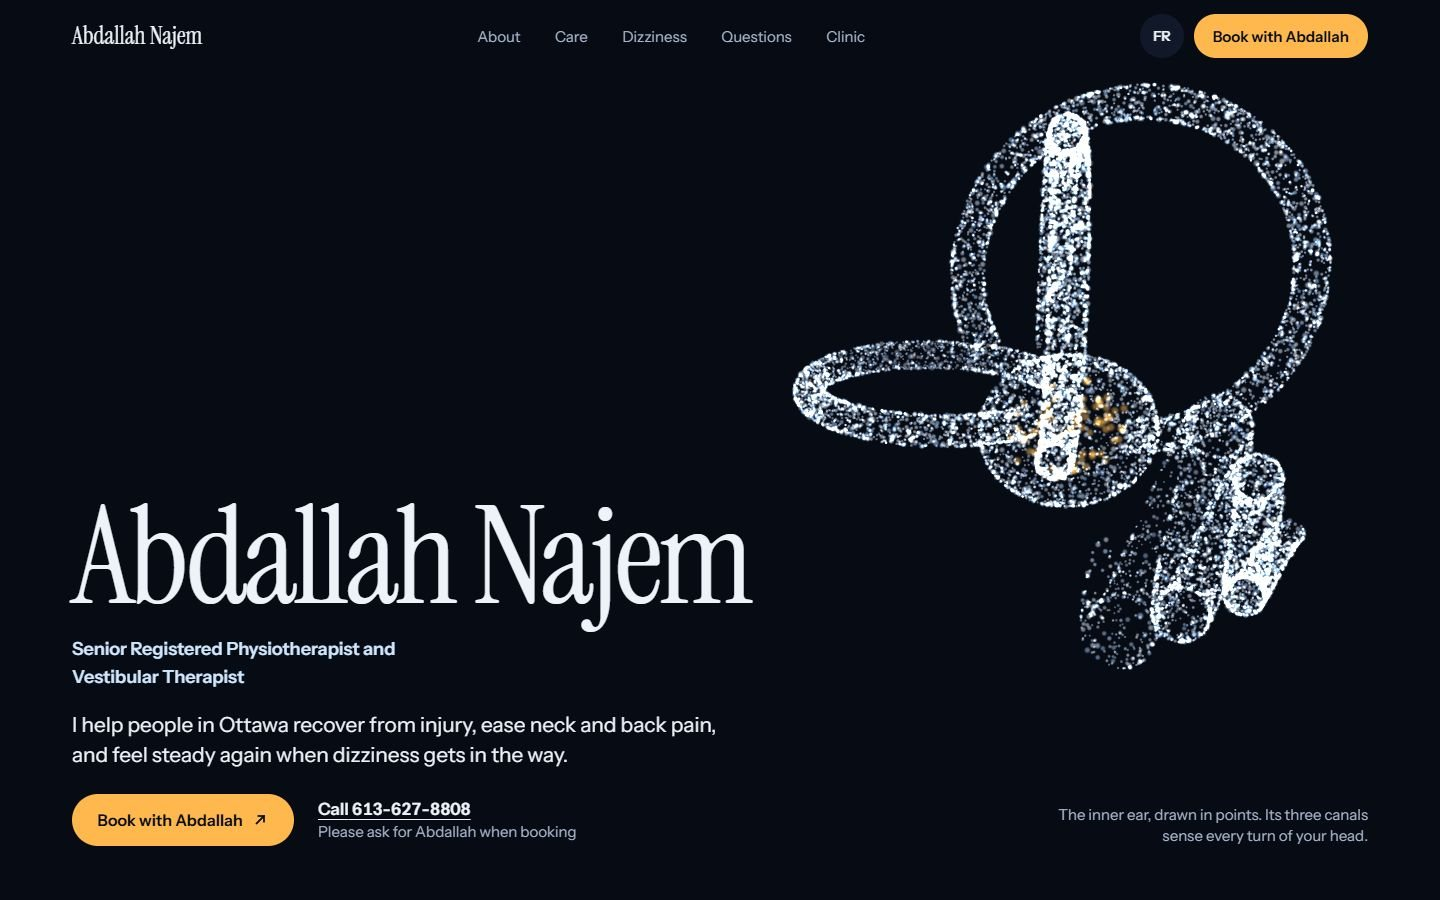
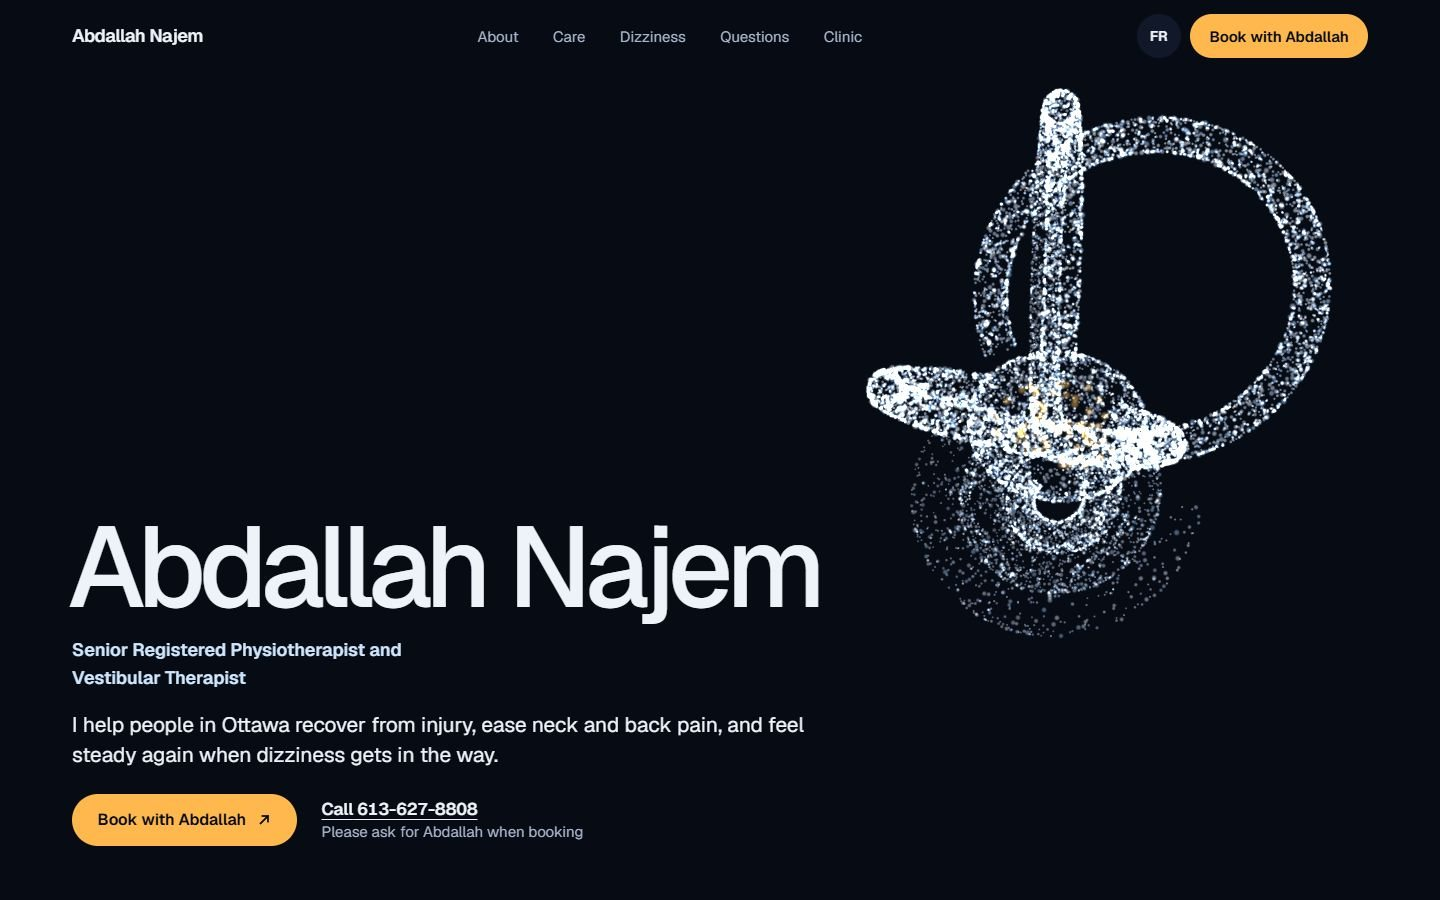
Version 7: new typeface, portrait in front of a ring of points, toned clinic photos, languages section

diff --git a/boudy/v7/css/style.css b/boudy/v7/css/style.css
@@ -11,8 +11,8 @@
   --muted: #a8b6cc;
   --ice: #cfe6ff;
   --amber: #ffb84d;
-  --serif: 'Instrument Serif', 'Iowan Old Style', Georgia, serif;
-  --sans: 'Instrument Sans', 'Segoe UI', system-ui, -apple-system, sans-serif;
+  --serif: 'Geist', 'Segoe UI', system-ui, -apple-system, sans-serif;   /* the display role: the same family, set large and tight */
+  --sans: 'Geist', 'Segoe UI', system-ui, -apple-system, sans-serif;
   --px: clamp(1.25rem, 5vw, 5rem);
   --bar: 4.5rem;
   --ease: cubic-bezier(0.22, 1, 0.36, 1);
@@ -25,7 +25,8 @@ body { background: var(--bg); color: var(--ink); font: 400 1.0625rem/1.55 var(--
 img, picture { display: block; max-width: 100%; }
 a { color: inherit; }
 p { text-wrap: pretty; }
-h1, h2, h3 { font-family: var(--serif); font-weight: 400; text-wrap: balance; }
+h1, h2, h3 { font-family: var(--serif); font-weight: 500; text-wrap: balance; }
+.has-lenis { scroll-behavior: auto; }
 :focus-visible { outline: 2px solid var(--amber); outline-offset: 4px; }
 .visually-hidden { position: absolute; width: 1px; height: 1px; margin: -1px; padding: 0; overflow: hidden; clip-path: inset(50%); white-space: nowrap; border: 0; }
 .skip { position: absolute; left: 1rem; top: -4rem; z-index: 60; padding: 0.75rem 1rem; background: var(--amber); color: var(--bg); font-weight: 600; border-radius: 999px; }
@@ -40,7 +41,7 @@ main, .foot { position: relative; z-index: 1; }
 /* ---------- The bar ---------- */
 .bar { position: fixed; inset: 0 0 auto 0; z-index: 40; height: var(--bar); display: flex; align-items: center; justify-content: space-between; gap: 1rem; padding: 0 var(--px); transition: background 0.4s; }
 .bar.is-solid { background: var(--bg); }
-.bar__mark { font: 400 1.5rem/1 var(--serif); text-decoration: none; white-space: nowrap; min-height: 2.75rem; display: inline-flex; align-items: center; }
+.bar__mark { font: 600 1.125rem/1 var(--serif); letter-spacing: -0.02em; text-decoration: none; white-space: nowrap; min-height: 2.75rem; display: inline-flex; align-items: center; }
 .bar__nav ul { list-style: none; padding: 0; display: flex; gap: clamp(1rem, 2.4vw, 2.25rem); }
 .bar__nav a { text-decoration: none; font-size: 0.9375rem; color: var(--muted); padding: 0.75rem 0; transition: color 0.2s; }
 .bar__nav a:hover { color: var(--ink); }
@@ -62,7 +63,7 @@ main, .foot { position: relative; z-index: 1; }
 .ph { background: var(--raise); color: var(--ice); padding: 0.1em 0.4em; border-radius: 0.3em; font-weight: 500; }
 
 /* ---------- Type ---------- */
-.h { font-size: clamp(2.6rem, 6.2vw, 5.5rem); line-height: 0.98; letter-spacing: -0.02em; }
+.h { font-size: clamp(2.4rem, 5.3vw, 4.75rem); line-height: 0.98; letter-spacing: -0.045em; }
 .st { font-size: clamp(1.2rem, 1.75vw, 1.5rem); line-height: 1.35; color: var(--ink); }
 .lead { font-size: clamp(1.0625rem, 1.4vw, 1.25rem); color: var(--muted); max-width: 34em; }
 .cap { font-size: 0.9375rem; line-height: 1.4; color: var(--muted); max-width: 22em; }
@@ -70,7 +71,7 @@ main, .foot { position: relative; z-index: 1; }
 /* ---------- 1. The first screen ---------- */
 .hero { min-height: 100svh; padding: calc(var(--bar) + 2rem) var(--px) clamp(2rem, 6vh, 4rem); display: grid; grid-template-columns: minmax(0, 1fr) auto; align-items: end; gap: 2rem; }
 .hero__copy { max-width: 35rem; display: grid; gap: 1.1rem; }
-.hero__title { font-size: clamp(3.6rem, 9.4vw, 8.75rem); line-height: 0.9; letter-spacing: -0.03em; white-space: nowrap; }
+.hero__title { font-size: clamp(3.2rem, 7.9vw, 7.4rem); line-height: 0.9; letter-spacing: -0.055em; white-space: nowrap; margin-left: -0.04em; }
 .hero__role { font-weight: 600; font-size: 1.125rem; color: var(--ice); max-width: 26em; }
 .hero__lead { font-size: clamp(1.0625rem, 1.45vw, 1.3rem); line-height: 1.45; }
 .hero__act { display: flex; flex-wrap: wrap; align-items: center; gap: 1rem 1.5rem; margin-top: 0.4rem; }
@@ -83,12 +84,13 @@ main, .foot { position: relative; z-index: 1; }
 .stage { display: flex; align-items: flex-end; min-height: 12rem; }
 
 .about { grid-template-columns: minmax(0, 0.8fr) minmax(0, 1fr); align-items: center; }
-.about__fig { margin: 0; overflow: hidden; border-radius: 1.5rem; aspect-ratio: 4 / 5; max-height: 82svh; justify-self: start; width: 100%; }
-.about__fig img { width: 100%; height: 100%; object-fit: cover; object-position: top; }
+/* He stands in front of a ring of the same points; the canvas behind the page draws it and follows the picture. */
+.about__fig { margin: 0; justify-self: center; width: min(100%, 68svh); }
+.about__fig img { width: 100%; height: auto; }
 .about__copy { display: grid; gap: 1.25rem; max-width: 40rem; }
 .about__copy > p:not(.st) { color: var(--muted); }
 .glance { display: grid; grid-template-columns: repeat(4, minmax(0, 1fr)); gap: 1.5rem; margin-top: 1rem; }
-.glance dt { font: 400 clamp(3rem, 5.4vw, 5rem) / 0.9 var(--serif); color: var(--amber); }
+.glance dt { font: 300 clamp(3rem, 5.4vw, 5rem) / 0.9 var(--serif); letter-spacing: -0.05em; color: var(--amber); }
 .glance dd { margin-top: 0.5rem; font-size: 0.9375rem; line-height: 1.35; color: var(--muted); }
 
 .care { grid-template-columns: minmax(0, 1fr) minmax(0, 1fr); min-height: 100svh; align-items: center; }
@@ -97,7 +99,7 @@ main, .foot { position: relative; z-index: 1; }
 .svcs { list-style: none; padding: 0; display: grid; gap: 0.5rem; margin-top: 0.75rem; }
 .svcs li { padding: 1.15rem 1.35rem; border-radius: 1.1rem; background: rgba(16, 24, 41, 0.72); transition: background 0.3s, translate 0.4s var(--ease); }
 .svcs li:hover { background: var(--raise); translate: 0.4rem 0; }
-.svcs h3 { font-size: clamp(1.5rem, 2.3vw, 2rem); line-height: 1.1; }
+.svcs h3 { font-size: clamp(1.3rem, 1.9vw, 1.65rem); line-height: 1.15; letter-spacing: -0.03em; }
 .svcs p { margin-top: 0.4rem; color: var(--muted); font-size: 1rem; max-width: 38em; }
 
 .dizzy { grid-template-columns: minmax(0, 1fr) minmax(0, 1fr); min-height: 100svh; align-items: center; }
@@ -110,19 +112,26 @@ main, .foot { position: relative; z-index: 1; }
 
 .visit__head { display: grid; grid-template-columns: minmax(0, 1fr) minmax(0, 1fr); align-items: end; gap: 1.5rem clamp(2rem, 5vw, 5rem); }
 .steps { list-style: none; padding: 0; display: grid; grid-template-columns: repeat(3, minmax(0, 1fr)); gap: clamp(1rem, 2.5vw, 2.25rem); counter-reset: step; }
-.steps li { display: grid; gap: 0.75rem; align-content: start; }
-.steps picture { overflow: hidden; border-radius: 1.25rem; aspect-ratio: 4 / 5; background: var(--raise); }
-.steps img { width: 100%; height: 100%; object-fit: cover; transition: scale 0.9s var(--ease); }
-.steps li:hover img { scale: 1.04; }
-.steps h3 { font-size: clamp(2rem, 3.4vw, 3rem); line-height: 1; margin-top: 0.5rem; }
+.steps li { display: flex; flex-direction: column; gap: 1rem; padding: clamp(1.5rem, 2.6vw, 2.5rem); border-radius: 1.5rem; background: rgba(16, 24, 41, 0.78); min-height: clamp(15rem, 44vh, 24rem); transition: background 0.3s, translate 0.5s var(--ease); }
+.steps li:hover { background: var(--raise); translate: 0 -0.4rem; }
+.steps h3 { font-size: clamp(2.4rem, 4.6vw, 4.25rem); line-height: 0.95; letter-spacing: -0.05em; color: var(--amber); margin-bottom: auto; }
 .steps p { color: var(--muted); }
+
+.langs { grid-template-columns: minmax(0, 0.8fr) minmax(0, 1.2fr); align-items: start; }
+.langs__head { display: grid; gap: 1.25rem; position: sticky; top: calc(var(--bar) + 1.5rem); }
+.langs__list { list-style: none; padding: 0; display: grid; gap: clamp(1rem, 2.4vw, 2rem); }
+.langs__list li { display: grid; gap: 0.35rem; transition: opacity 0.35s; }
+.langs__list:hover li:not(:hover) { opacity: 0.32; }
+.langs__say { font: 500 clamp(2.3rem, 5.6vw, 5.25rem) / 1 var(--serif); letter-spacing: -0.05em; }
+.langs__say[lang="ar"] { letter-spacing: 0; line-height: 1.25; text-align: left; }
+.langs__lv { color: var(--muted); font-size: 0.9375rem; }
 
 .faq { grid-template-columns: minmax(0, 0.8fr) minmax(0, 1.2fr); align-items: start; }
 .faq .h { position: sticky; top: calc(var(--bar) + 1.5rem); }
 .faq__list { display: grid; gap: 0.5rem; }
 .faq details { border-radius: 1.1rem; background: rgba(16, 24, 41, 0.78); padding: 0 1.4rem; transition: background 0.3s; }
 .faq details[open], .faq details:hover { background: var(--raise); }
-.faq summary { list-style: none; cursor: pointer; display: flex; justify-content: space-between; align-items: center; gap: 1.5rem; padding: 1.2rem 0; font: 400 clamp(1.3rem, 2vw, 1.7rem) / 1.15 var(--serif); }
+.faq summary { list-style: none; cursor: pointer; display: flex; justify-content: space-between; align-items: center; gap: 1.5rem; padding: 1.2rem 0; font: 500 clamp(1.15rem, 1.6vw, 1.4rem) / 1.2 var(--serif); letter-spacing: -0.025em; }
 .faq summary::-webkit-details-marker { display: none; }
 .faq summary::after { content: ""; flex: none; width: 0.7rem; height: 0.7rem; border-right: 2px solid var(--amber); border-bottom: 2px solid var(--amber); rotate: 45deg; translate: 0 -0.2rem; transition: rotate 0.3s var(--ease), translate 0.3s var(--ease); }
 .faq details[open] summary::after { rotate: 225deg; translate: 0 0.15rem; }
@@ -134,14 +143,16 @@ main, .foot { position: relative; z-index: 1; }
 .clinic__card p:last-child { grid-column: 1 / -1; }
 .clinic__card a { text-underline-offset: 0.25em; }
 .clinic__pics { display: grid; grid-template-columns: repeat(2, minmax(0, 1fr)); gap: 0.75rem; }
-.clinic__pics picture { overflow: hidden; border-radius: 1.25rem; background: var(--raise); aspect-ratio: 1; }
+/* The photographs take the page's blue until you point at them. */
+.clinic__pics picture { overflow: hidden; border-radius: 1.25rem; background: #1f4577; aspect-ratio: 1; isolation: isolate; }
 .clinic__pics picture:first-child { grid-column: 1 / -1; aspect-ratio: 16 / 9; }
-.clinic__pics img { width: 100%; height: 100%; object-fit: cover; }
+.clinic__pics img { width: 100%; height: 100%; object-fit: cover; mix-blend-mode: luminosity; filter: contrast(1.15) brightness(0.8); transition: scale 0.9s var(--ease); }
+.clinic__pics picture:hover img { mix-blend-mode: normal; filter: none; scale: 1.03; }
 
 .cta { min-height: 92svh; justify-items: center; align-content: center; text-align: center; gap: 0; }
-.cta__title { font-size: clamp(3rem, 9vw, 8.5rem); line-height: 0.92; letter-spacing: -0.03em; padding-bottom: clamp(3rem, 9vh, 6rem); }
+.cta__title { font-size: clamp(2.6rem, 7.6vw, 7.25rem); line-height: 0.92; letter-spacing: -0.055em; padding-bottom: clamp(3rem, 9vh, 6rem); }
 .cta__act { display: flex; flex-wrap: wrap; justify-content: center; align-items: center; gap: 1rem 2rem; padding-top: clamp(3rem, 9vh, 6rem); }
-.cta__tel { font: 400 clamp(1.5rem, 2.6vw, 2.25rem) / 1 var(--serif); text-underline-offset: 0.2em; text-decoration-thickness: 1px; }
+.cta__tel { font: 500 clamp(1.3rem, 2.1vw, 1.8rem) / 1 var(--serif); letter-spacing: -0.03em; text-underline-offset: 0.2em; text-decoration-thickness: 1px; }
 .cta__note { margin-top: 1.25rem; color: var(--muted); }
 
 .foot { padding: 2.5rem var(--px) 3rem; background: var(--bg); display: grid; grid-template-columns: minmax(0, 1fr) auto; gap: 1rem 3rem; color: var(--muted); font-size: 0.9375rem; }
@@ -167,11 +178,14 @@ main, .foot { position: relative; z-index: 1; }
 
   /* The scene sits in the upper part of the screen; each block of text has its own ground. */
   .hero { grid-template-columns: minmax(0, 1fr); align-content: end; gap: 1rem; padding-bottom: 1.75rem; }
-  .hero__title { font-size: clamp(3rem, 15.5vw, 5rem); }
+  .hero__title { font-size: clamp(2.4rem, 12.6vw, 4.5rem); }
   .hero__cap { order: -1; text-align: left; justify-self: start; }
   .sec { grid-template-columns: minmax(0, 1fr); padding-block: 4rem; }
-  .about, .visit, .faq, .clinic { background: rgba(7, 11, 20, 0.86); }
-  .about__fig { max-height: none; }
+  .visit, .langs, .faq, .clinic { background: rgba(7, 11, 20, 0.86); }
+  .about__fig { width: min(100%, 24rem); }
+  .langs__head { position: static; }
+  .steps li { min-height: 0; }
+  .steps h3 { margin-bottom: 0; }
   .care, .dizzy { min-height: 0; padding-block: 0 4rem; gap: 0; }
   .care .stage, .dizzy .stage { min-height: 62svh; padding-bottom: 1.25rem; justify-content: flex-start; }
   .dizzy .stage { order: -1; }
@@ -180,8 +194,7 @@ main, .foot { position: relative; z-index: 1; }
   .svcs li { background: var(--raise); }
   .svcs li:hover { translate: none; }
   .visit__head { grid-template-columns: minmax(0, 1fr); }
-  .steps { grid-template-columns: minmax(0, 1fr); gap: 2.5rem; }
-  .steps picture { aspect-ratio: 4 / 3; }
+  .steps { grid-template-columns: minmax(0, 1fr); gap: 0.75rem; }
   .faq .h { position: static; }
   .foot { grid-template-columns: minmax(0, 1fr); }
   .foot__links { justify-content: flex-start; }

diff --git a/boudy/v7/index.html b/boudy/v7/index.html
@@ -26,7 +26,7 @@
 
   <link rel="preconnect" href="https://fonts.googleapis.com">
   <link rel="preconnect" href="https://fonts.gstatic.com" crossorigin>
-  <link href="https://fonts.googleapis.com/css2?family=Instrument+Sans:wght@400;500;600&family=Instrument+Serif:ital@0;1&display=swap" rel="stylesheet">
+  <link href="https://fonts.googleapis.com/css2?family=Geist:wght@300..700&display=swap" rel="stylesheet">
   <link rel="stylesheet" href="css/style.css">
 
   <script>
@@ -128,9 +128,9 @@
     </section>
 
     <!-- 2. About: the person, in a real photograph -->
-    <section class="sec about" id="about" data-shape="field" data-x="0" data-y="0" data-scale="1.2" data-alpha="0.35" aria-labelledby="about-title">
+    <section class="sec about" id="about" data-shape="ring" data-follow=".about__fig" data-x="-0.5" data-y="0.1" data-scale="1" data-alpha="1" aria-labelledby="about-title">
       <figure class="about__fig" data-in>
-        <picture><source srcset="assets/images/abdallah-portrait-600.webp 600w, assets/images/abdallah-portrait.webp 1000w" sizes="(max-width: 800px) 90vw, 36vw" type="image/webp"><img src="assets/images/abdallah-portrait.jpg" width="1000" height="1250" alt="Abdallah Najem in black scrubs, arms crossed, smiling" data-i18n-attr="alt:portraitAlt" loading="lazy"></picture>
+        <img src="assets/images/abdallah-cutout.webp" srcset="assets/images/abdallah-cutout-560.webp 560w, assets/images/abdallah-cutout.webp 1000w" sizes="(max-width: 800px) 80vw, 34vw" width="1000" height="1250" alt="Abdallah Najem in black scrubs, arms crossed, smiling" data-i18n-attr="alt:portraitAlt" loading="lazy">
       </figure>
       <div class="about__copy">
         <h2 class="h" id="about-title" data-in data-i18n="aboutTitle">Assessment first, every time</h2>
@@ -184,21 +184,32 @@
       </div>
       <ol class="steps">
         <li data-in>
-          <picture><source srcset="assets/images/clinic-treatment-room-tall.webp" type="image/webp"><img src="assets/images/clinic-treatment-room-tall.jpg" width="720" height="960" alt="A treatment room at Arro Wellness with rehab equipment on the wall" data-i18n-attr="alt:stepImg1" loading="lazy"></picture>
           <h3 data-i18n="step1Title">Assess</h3>
           <p data-i18n="step1Text">We talk about what you feel and what you want to get back to. Then I look at how you move, to find what is driving the problem, not only where it hurts.</p>
         </li>
         <li data-in>
-          <picture><source srcset="assets/images/clinic-treatment-table.webp" type="image/webp"><img src="assets/images/clinic-treatment-table.jpg" width="630" height="788" alt="An adjustable treatment table at Arro Wellness" data-i18n-attr="alt:stepImg2" loading="lazy"></picture>
           <h3 data-i18n="step2Title">Treat</h3>
           <p data-i18n="step2Text">Hands-on treatment targets what the assessment found: soft tissue mobilization, manual therapy and, when it suits, shockwave or vestibular techniques.</p>
         </li>
         <li data-in>
-          <picture><source srcset="assets/images/clinic-training-area.webp" type="image/webp"><img src="assets/images/clinic-training-area.jpg" width="1100" height="687" alt="Training area with squat racks for exercise" data-i18n-attr="alt:stepImg3" loading="lazy"></picture>
           <h3 data-i18n="step3Title">Exercise</h3>
           <p data-i18n="step3Text">You leave with a short set of exercises chosen for you, so the progress you make in the clinic keeps going at home.</p>
         </li>
       </ol>
+    </section>
+
+    <!-- Languages: the same request, four ways -->
+    <section class="sec langs" id="languages" data-shape="field" data-x="0" data-y="0" data-scale="1.2" data-alpha="0.3" aria-labelledby="langs-title">
+      <div class="langs__head">
+        <h2 class="h" id="langs-title" data-in data-i18n="langsTitle">Your care in your language</h2>
+        <p class="lead" data-in data-i18n="langsText">Pain and dizziness are hard enough to describe. You can do it in the language you are most comfortable with.</p>
+      </div>
+      <ul class="langs__list">
+        <li data-in><span class="langs__say">Ask for Abdallah</span><span class="langs__lv">English · <span data-i18n="lvFluent">Fluent</span></span></li>
+        <li data-in><span class="langs__say" lang="fr">Demandez Abdallah</span><span class="langs__lv"><span lang="fr">Français</span> · <span data-i18n="lvFluent">Fluent</span></span></li>
+        <li data-in><span class="langs__say" lang="ar" dir="rtl">اطلبوا عبدالله</span><span class="langs__lv"><span lang="ar">العربية</span> · <span data-i18n="lvNative">Native</span></span></li>
+        <li data-in><span class="langs__say" lang="es">Pregunte por Abdallah</span><span class="langs__lv"><span lang="es">Español</span> · <span data-i18n="lvBasic">Basic clinical</span></span></li>
+      </ul>
     </section>
 
     <!-- 6. Questions -->
@@ -260,6 +271,7 @@
   </footer>
 
   <script src="https://cdnjs.cloudflare.com/ajax/libs/three.js/r128/three.min.js" defer></script>
+  <script src="https://cdn.jsdelivr.net/npm/lenis@1.1.13/dist/lenis.min.js" defer></script>
   <script src="js/i18n.js" defer></script>
   <script src="js/main.js" defer></script>
 </body>

diff --git a/boudy/v7/js/main.js b/boudy/v7/js/main.js
@@ -190,8 +190,19 @@
     return out;
   }
 
+  function ring(N) { // a circle that faces the reader, with a loose halo: it stands behind the portrait
+    var out = new Float32Array(N * 3);
+    for (var i = 0; i < N; i++) {
+      var a = rnd() * Math.PI * 2, halo = rnd() < 0.22;
+      var r = 1.25 + gauss() * (halo ? 0.22 : 0.035);
+      out[i * 3] = r * Math.cos(a); out[i * 3 + 1] = r * Math.sin(a); out[i * 3 + 2] = gauss() * (halo ? 0.3 : 0.05);
+    }
+    return out;
+  }
+
   /* ---------- The scene ---------- */
   var scene = null;
+  var lenis = null;
 
   function sceneSetup() {
     var canvas = $('[data-scene]');
@@ -204,7 +215,7 @@
     var small = window.innerWidth < 800;
     var N = small ? 8000 : 15000;
     var CR = 70; // the crystals: the last points of the cloud, in amber
-    var shapes = { ear: ear(N), spine: spine(N), field: field(N), line: line(N) };
+    var shapes = { ear: ear(N), spine: spine(N), field: field(N), line: line(N), ring: ring(N) };
     shapes.crystals = shapes.ear;
 
     var pos = new Float32Array(shapes.field);
@@ -273,9 +284,17 @@
       cur.x = wide ? parseFloat(best.getAttribute('data-x')) * halfW : 0;
       cur.y = wide ? parseFloat(best.getAttribute('data-y')) * halfH : (shape === 'field' || shape === 'line' ? 0 : halfH * (shape === 'spine' ? 0.3 : 0.44));
       if (!wide && shape === 'field') cur.alpha *= 0.7;
+      // a shape that stands behind something on the page follows it
+      var follow = best.getAttribute('data-follow'), el = follow ? $(follow, best) : null;
+      if (el) {
+        var fr = el.getBoundingClientRect();
+        cur.x = ((fr.left + fr.width / 2) / W * 2 - 1) * halfW;
+        cur.y = -((fr.top + fr.height * 0.4) / H * 2 - 1) * halfH;
+        cur.scale = (fr.width / W * 2 * halfW) / 2.5 * 0.96;
+      }
     }
 
-    var gx = 0, gy = 0, gs = 0.6, rotY = 0.6, rotX = 0, rotZ = 0, alpha = 0;
+    var gx = 0, gy = 0, gs = 0.6, rotY = 0.6, rotX = 0, rotZ = 0, alpha = 0, ringSpin = 0;
     var mx = 0, my = 0, last = 0, running = false, visible = true;
     var turnFrom = -1, shift = 0;
 
@@ -314,15 +333,17 @@
       var e = snap ? 1 : 1 - Math.pow(0.94, f);
       gx += (cur.x - gx) * e; gy += (cur.y - gy) * e; gs += (cur.scale - gs) * e; alpha += (cur.alpha - alpha) * e;
       var spinning = cur.shape === 'ear' || cur.shape === 'crystals';
-      if (cur.shape === 'line') { var home = Math.round(rotY / (Math.PI * 2)) * Math.PI * 2; rotY += (home - rotY) * e; }
+      var flat = cur.shape === 'line' || cur.shape === 'ring';
+      if (cur.shape === 'ring' && !reduce) ringSpin += dt * 0.07;
+      if (flat) { var home = Math.round(rotY / (Math.PI * 2)) * Math.PI * 2; rotY += (home - rotY) * e; }
       else if (cur.shape === 'spine') { var sway = Math.round(rotY / (Math.PI * 2)) * Math.PI * 2 + 0.55 * Math.sin(now / 2600); rotY += (sway - rotY) * e * 0.6; }
       else if (!reduce) rotY += dt * (spinning ? 0.22 : 0.02);
       var wantZ = turnFrom >= 0 ? 0.55 * Math.sin(((now - turnFrom) / 3000) * Math.PI * 2) * (1 - (now - turnFrom) / 3000) : 0;
       rotZ += (wantZ - rotZ) * (snap ? 1 : 1 - Math.pow(0.85, f));
-      rotX += ((cur.shape === 'line' ? 0 : my * 0.18 + (spinning ? 0.18 : 0)) - rotX) * e;
+      rotX += ((flat ? 0 : my * 0.18 + (spinning ? 0.18 : 0)) - rotX) * e;
       group.position.set(gx, gy, 0);
       group.scale.setScalar(gs);
-      group.rotation.set(rotX, rotY + (cur.shape === 'line' ? 0 : mx * 0.3), rotZ);
+      group.rotation.set(rotX, rotY + (flat ? 0 : mx * 0.3), rotZ + (cur.shape === 'ring' ? ringSpin : 0));
       mat.uniforms.uAlpha.value = alpha;
       renderer.render(world, cam);
     }
@@ -386,10 +407,26 @@
     all.forEach(function (det) { det.addEventListener('toggle', function () { if (det.open) all.forEach(function (o) { if (o !== det) o.open = false; }); }); });
   }
 
+  // Smooth wheel scrolling, when motion is welcome; links inside the page use it too.
+  function smooth() {
+    if (reduce || !window.Lenis) return;
+    try { lenis = new window.Lenis({ lerp: 0.1 }); } catch (e) { lenis = null; return; }
+    root.classList.add('has-lenis');
+    (function raf(now) { lenis.raf(now); window.requestAnimationFrame(raf); })(window.performance.now());
+    d.addEventListener('click', function (e) {
+      var a = e.target.closest ? e.target.closest('a[href^="#"]') : null;
+      var to = a ? d.getElementById(a.getAttribute('href').slice(1)) : null;
+      if (!to) return;
+      e.preventDefault();
+      lenis.scrollTo(to, { offset: a.getAttribute('href') === '#top' ? 0 : -40 });
+    });
+  }
+
   function start() {
     collectEnglish();
     applyLang(initialLang());
     smallThings();
+    smooth();
     entrances();
     if (window.__animFailsafe) window.clearTimeout(window.__animFailsafe);
     try { sceneSetup(); } catch (e) { root.classList.add('no-gl'); if (window.console) window.console.error(e); }

diff --git a/boudy/v7/js/i18n.js b/boudy/v7/js/i18n.js
@@ -30,6 +30,7 @@ window.I18N = {
     capSpine: 'Vingt-quatre vertèbres, dessinées en points.',
     capCrystals: 'Les points ambrés sont les cristaux. Appuyez sur le bouton : ils roulent, puis se déposent.',
     ctaTitle: 'Réservez en ligne, ou appelez',
+    langsTitle: 'Vos soins dans votre langue',
     visitTitle: 'À quoi vous attendre',
     sceneLabel: 'Animation décorative : des points qui dessinent l’oreille interne puis la colonne vertébrale',
 
